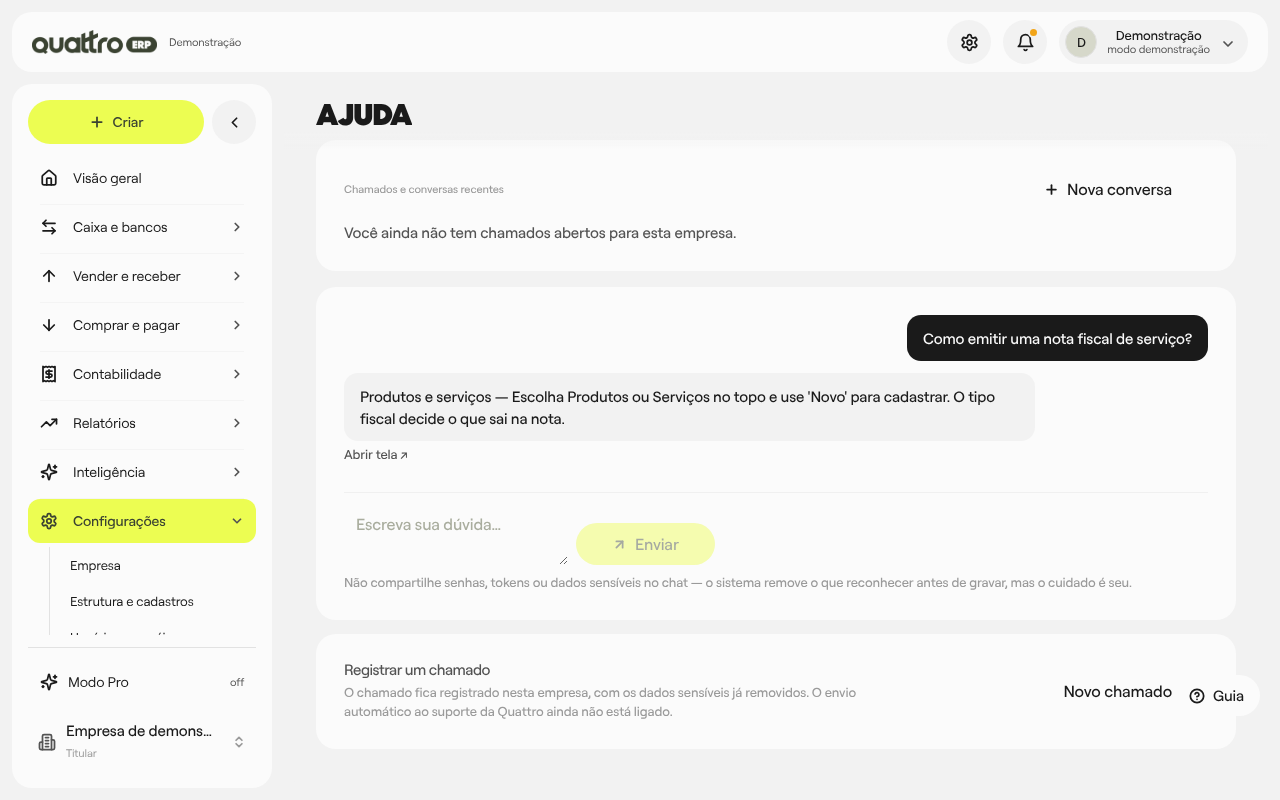
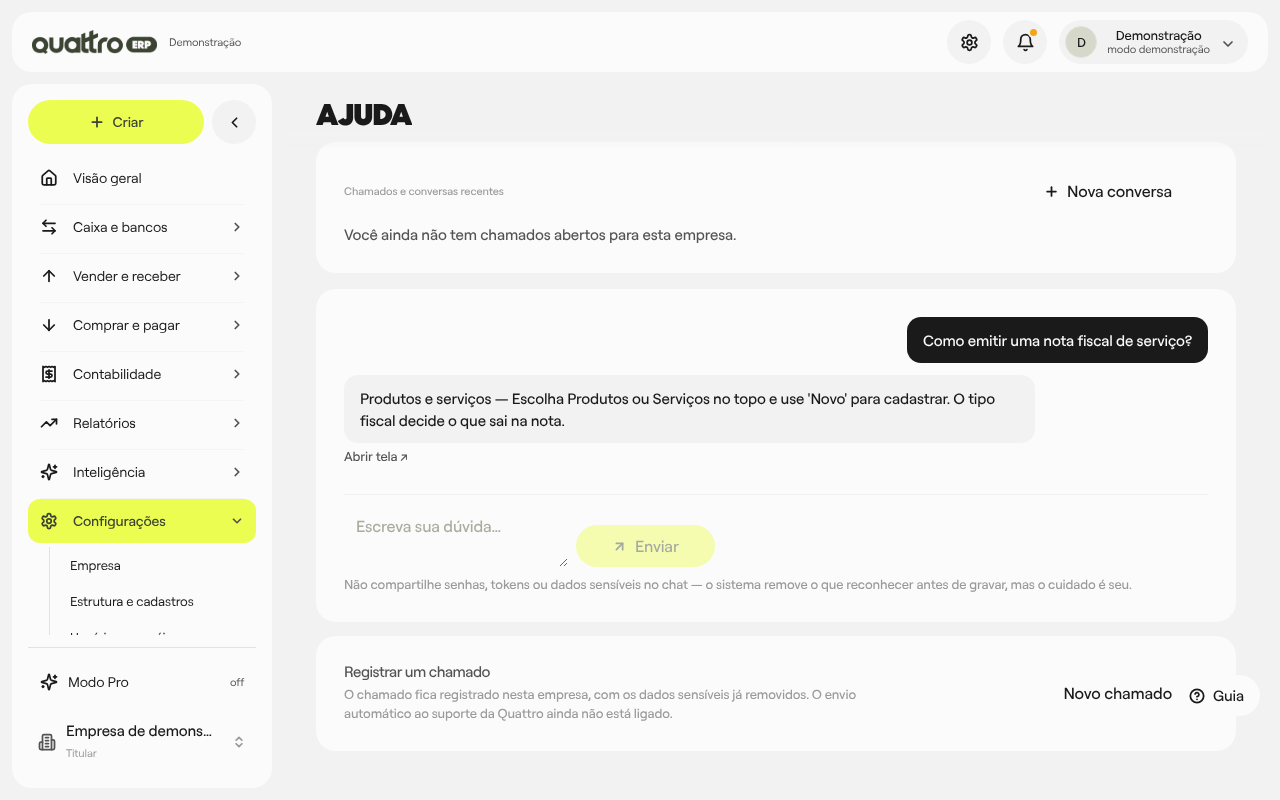
Conversa da IA: sem a marca no digitando, animação mais lenta
Pedido do dono: tirar o 4 da frente dos três pontos e deixar o movimento
mais calmo. Palavras surgem a cada 55 ms (eram 28), cada uma em 800 ms
(eram 460); pontos em 1,6 s e brilho em 2,6 s. Prints refeitos.

Claude-Session: https://claude.ai/code/session_013kjjcJ275nVXzqtCSTthRB

diff --git a/src/app/globals.css b/src/app/globals.css
@@ -1101,10 +1101,10 @@ h1, h2, h3,
 /* Três pontos da IA "digitando": pulam em sequência até a resposta chegar.
    Só tokens; para em `prefers-reduced-motion` (os pontos ficam parados). */
 .a4p-digitando span {
-  animation: a4p-digitando 1.2s ease-in-out infinite;
+  animation: a4p-digitando 1.6s ease-in-out infinite;
 }
-.a4p-digitando span:nth-child(2) { animation-delay: 0.15s; }
-.a4p-digitando span:nth-child(3) { animation-delay: 0.3s; }
+.a4p-digitando span:nth-child(2) { animation-delay: 0.2s; }
+.a4p-digitando span:nth-child(3) { animation-delay: 0.4s; }
 @keyframes a4p-digitando {
   0%, 60%, 100% { transform: translateY(0); opacity: 0.4; }
   30% { transform: translateY(-5px); opacity: 1; }
@@ -1133,7 +1133,7 @@ h1, h2, h3,
    elemento inline; os espaços ficam FORA das palavras, então a linha quebra igual. */
 .a4p-palavra {
   display: inline-block;
-  animation: a4p-palavra 460ms cubic-bezier(0.22, 1, 0.36, 1) both;
+  animation: a4p-palavra 800ms cubic-bezier(0.22, 1, 0.36, 1) both;
   animation-delay: var(--a4p-atraso, 0ms);
 }
 @keyframes a4p-palavra {
@@ -1148,23 +1148,16 @@ h1, h2, h3,
   -webkit-background-clip: text;
   background-clip: text;
   color: transparent;
-  animation: a4p-brilho-texto 1.8s linear infinite;
+  animation: a4p-brilho-texto 2.6s linear infinite;
 }
 @keyframes a4p-brilho-texto {
   from { background-position: 100% 50%; }
   to { background-position: -150% 50%; }
 }
 
-/* A marca da IA respira enquanto ela pensa. */
-.a4p-ia-respira { animation: a4p-ia-respira 1.6s ease-in-out infinite; }
-@keyframes a4p-ia-respira {
-  0%, 100% { transform: scale(1); opacity: 0.85; }
-  50% { transform: scale(1.08); opacity: 1; }
-}
-
 @media (prefers-reduced-motion: reduce) {
   .a4p-entra, .a4p-palavra { animation: none; }
-  .a4p-pulso, .a4p-varre, .a4p-digitando span, .a4p-brilho-texto, .a4p-ia-respira { animation: none; }
+  .a4p-pulso, .a4p-varre, .a4p-digitando span, .a4p-brilho-texto { animation: none; }
   .a4p-brilho-texto { color: var(--color-text-secondary); background-image: none; }
 }
 

diff --git a/src/components/ia/conversa.tsx b/src/components/ia/conversa.tsx
@@ -5,8 +5,9 @@
  * a IA conversa (abertura de conta, chat em tela cheia, ajuste da Home,
  * automações pela conversa e Central de Ajuda).
  *
- *  · `DigitandoIA` — enquanto a IA pensa: a marca respira, três pontos pulam e
- *    o rótulo ("Pensando") tem um brilho que passa por ele.
+ *  · `DigitandoIA` — enquanto a IA pensa: três pontos pulam e o rótulo
+ *    ("Pensando") tem um brilho que passa por ele. Sem a marca na frente
+ *    (decisão do dono, 16/10/2026): a conversa já diz quem fala.
  *  · `TextoRevelado` — quando a resposta chega, as palavras surgem uma depois
  *    da outra, saindo do desfoque, como nas IAs que escrevem ao vivo.
  *
@@ -17,15 +18,14 @@
  */
 
 import * as React from "react";
-import { MarcaIA } from "./marca";
 import { MARCA_IA } from "@/core/marca";
 
 /** Intervalo entre uma palavra e a seguinte. */
-const PASSO_MS = 28;
+const PASSO_MS = 55;
 /** Teto do atraso: um texto longo não pode levar mais que isso para terminar de surgir. */
-const TETO_MS = 1400;
+const TETO_MS = 2800;
 /** Duração da animação de cada palavra (a mesma do `.a4p-palavra`). */
-const PALAVRA_MS = 460;
+const PALAVRA_MS = 800;
 
 /** Quanto tempo o texto leva para terminar de surgir (para encadear o que vem depois). */
 export function duracaoRevelar(texto: string): number {
@@ -68,9 +68,6 @@ export function DigitandoIA({ rotulo = "Pensando", className = "" }: { rotulo?: 
       data-ia="digitando"
       className={`a4p-entra inline-flex w-fit items-center gap-3 py-1 ${className}`}
     >
-      <span className="a4p-ia-respira inline-flex">
-        <MarcaIA size={24} radius={8} />
-      </span>
       <span className="a4p-digitando inline-flex items-center gap-[5px]" aria-hidden>
         <span className="block w-[6px] h-[6px] rounded-pill bg-muted" />
         <span className="block w-[6px] h-[6px] rounded-pill bg-muted" />
